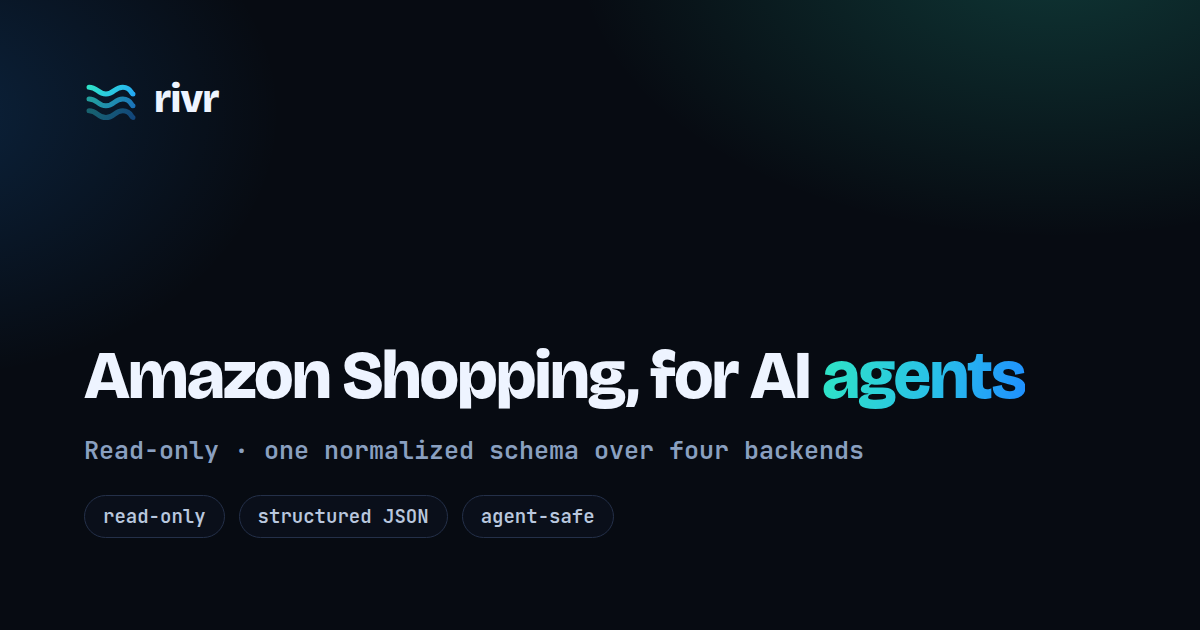
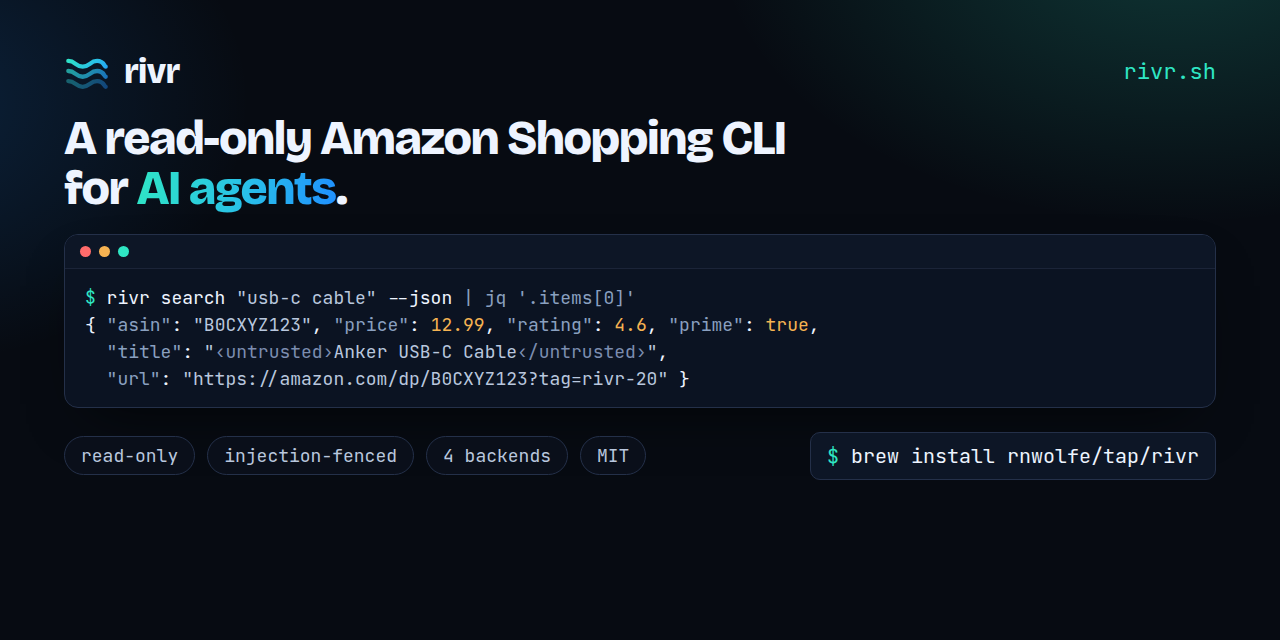
chore(brand): targeted 1280x640 GitHub social-preview card
Replace the generic OG-default reuse with a purpose-built repo card: brand + tagline,
a real terminal snippet (rivr search → structured JSON with the ‹untrusted› fence and the
tag=rivr-20 deep link), and read-only/fenced/4-backends/MIT pills + the brew one-liner.
Generated by site/scripts/gen-social.mjs (headless Chrome); AGENTS.md freshness wired.

Claude-Session: https://claude.ai/code/session_01ReeQvc2jRBS4boAQQZXTi1

diff --git a/AGENTS.md b/AGENTS.md
@@ -46,7 +46,7 @@ change, in the **same PR**:
 
 1. Update the affected docs page under `site/src/content/docs/` (and the repo `docs/backends.md` if the matrix changed).
 2. Update the **landing** copy/examples in `site/src/pages/index.astro` (hero, comparisons, backend matrix) and the README's mirrored matrix.
-3. **Regenerate OG cards** if any page title/headline changed: `cd site && node scripts/gen-og.mjs` (keep the page list in `scripts/gen-og.mjs` and the `known` list in `src/components/Head.astro` in sync).
+3. **Regenerate OG cards** if any page title/headline changed: `cd site && node scripts/gen-og.mjs` (keep the page list in `scripts/gen-og.mjs` and the `known` list in `src/components/Head.astro` in sync). If the brand/tagline/headline command changed, also regenerate the GitHub social-preview card: `cd site && node scripts/gen-social.mjs` → `.github/social-preview.png` (re-upload in repo Settings → Social preview).
 4. Rebuild (`cd site && pnpm build`) so `llms.txt` regenerates, and keep the embedded `internal/skill/SKILL.md` aligned (it's the agent contract shipped in the binary).
 
 Build/preview the site: `cd site && pnpm build` / `pnpm dev` (binds 0.0.0.0). Deploy is Vercel.